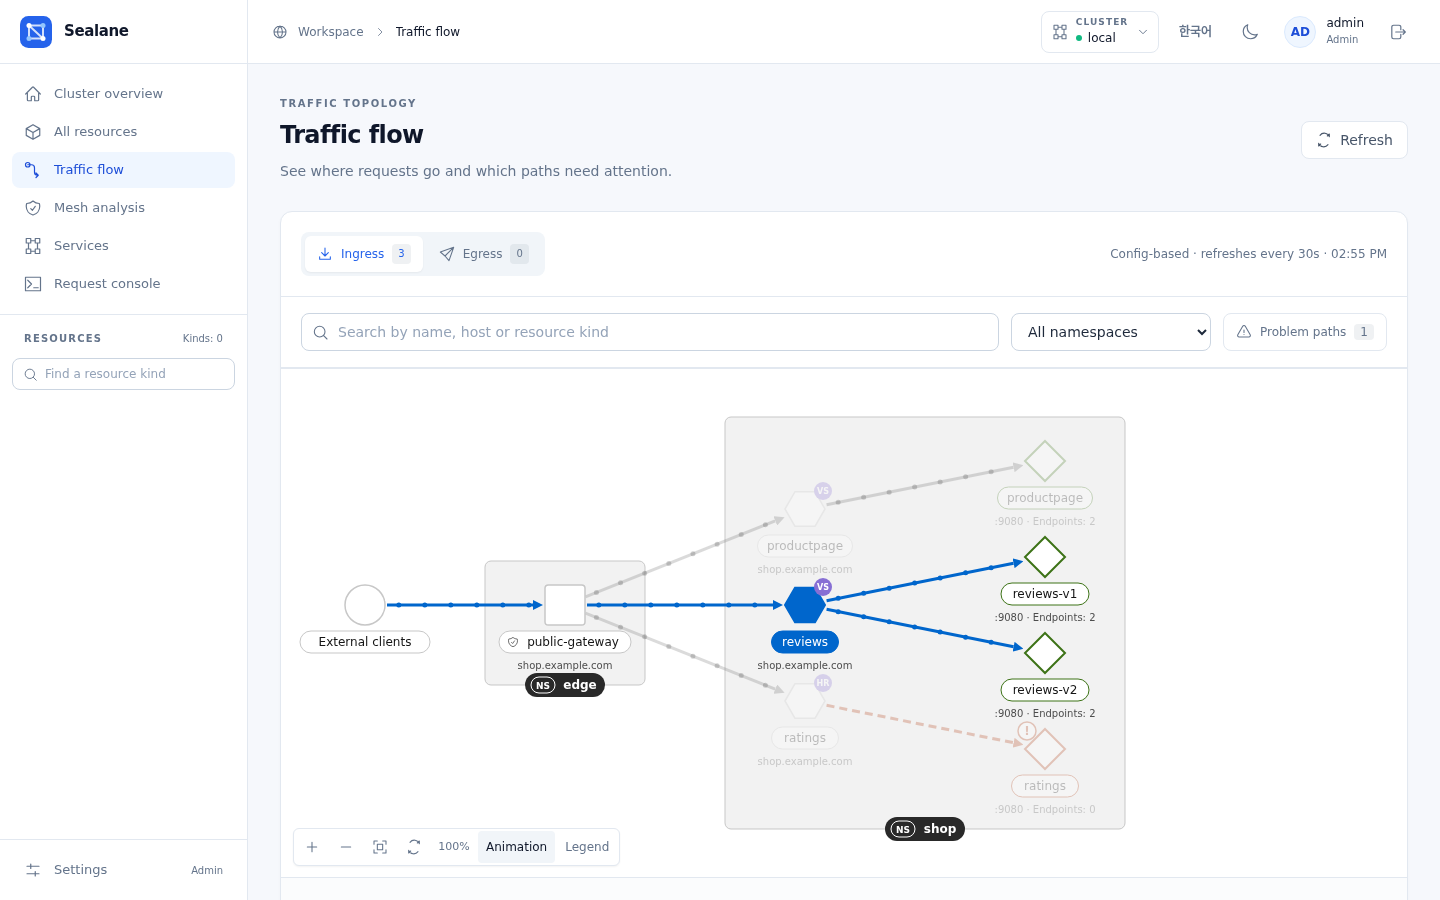
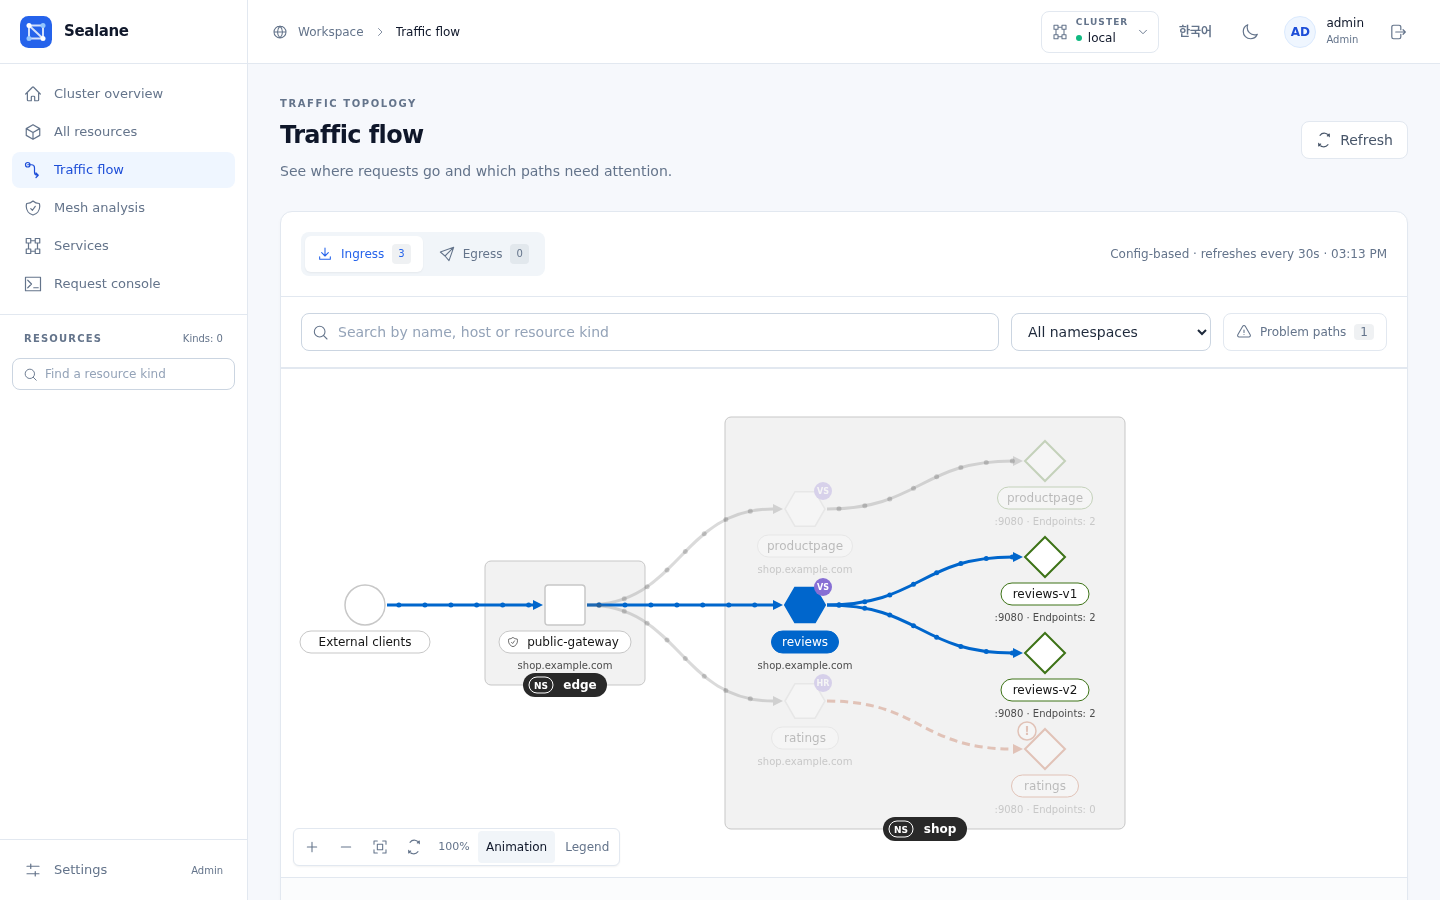
Release 1.18.1: curved edges that keep clear of labels, wider namespace labels
Found in the final live check: with one gateway feeding about 20 routes in a dozen
namespaces, straight edges ran almost vertically across other routes' labels. Edges leave
and enter nodes horizontally again (cubic curve, horizontal tangents), so the vertical part
bundles in the gap between boxes. Namespace label pills are sized at 8px per character for
the semibold text, so long names no longer run into the NS badge. Docs screenshot updated.

diff --git a/web/src/pages/flowLayout.ts b/web/src/pages/flowLayout.ts
@@ -127,18 +127,16 @@ export function layoutTopology({ nodes, edges }: Topology): Layout {
   return { width: CANVAS_WIDTH, height, positions, bands }
 }
 
-// Straight edge between the two node outlines, as Kiali draws them; the end stops short
-// so the arrowhead (ARROW long) touches the target.
+// Edge from the right side of `from` to the left side of `to` as a curve that leaves and arrives
+// horizontally: when one gateway feeds many routes, the vertical part runs in the gap between
+// boxes instead of across other nodes' labels. The end stops short so the arrowhead (ARROW
+// long) touches the target.
 export const ARROW = 10
 export function edgePath(from: Point, to: Point) {
-  const dx = to.x - from.x,
-    dy = to.y - from.y
-  const len = Math.hypot(dx, dy) || 1
-  const ux = dx / len,
-    uy = dy / len
-  const start = NODE_R + 2,
-    end = NODE_R + 2 + ARROW
-  return `M ${from.x + ux * start} ${from.y + uy * start} L ${to.x - ux * end} ${to.y - uy * end}`
+  const x1 = from.x + NODE_R + 2,
+    x2 = to.x - NODE_R - 2 - ARROW
+  const bend = Math.max(24, Math.abs(x2 - x1) / 2)
+  return `M ${x1} ${from.y} C ${x1 + bend} ${from.y}, ${x2 - bend} ${to.y}, ${x2} ${to.y}`
 }
 
 export const edgeKey = (edge: FlowEdge) => `${edge.from}>${edge.to}`

diff --git a/web/src/pages/FlowMap.tsx b/web/src/pages/FlowMap.tsx
@@ -631,7 +631,7 @@ function GraphNode({
 function NamespaceLabel({ band }: { band: Band }) {
   const name = band.namespace || t('flow.legend.external')
   const ns = !!band.namespace
-  const width = name.length * 7 + 22 + (ns ? 30 : 0)
+  const width = name.length * 8 + 22 + (ns ? 30 : 0) // 12px semibold runs about 8px per character
   const cx = band.x + band.width / 2
   const y = band.y + band.height
   return (

diff --git a/docs/features.md b/docs/features.md
@@ -24,7 +24,7 @@ Draws the traffic path purely from routing configuration — no metrics dependen
 
 - **Ingress** — External → Gateway → Route (hosts) → Service (endpoint counts). Backends that don't exist or have zero endpoints get red dashed edges and a red badge, so dead-end configs are caught at a glance.
 - **Egress** — Mesh → egress Gateway → external hosts; ServiceEntries not referenced by any route are shown as direct egress paths. The tooltip and details panel name the ServiceEntry that covers an external backend (wildcard host matching included).
-- **Graph** — drawn like Kiali's graph, with the same PatternFly topology look and shape vocabulary: a grey box per namespace with an `NS` label on its bottom edge, 40 px nodes (circle = request source, square = gateway, hexagon = route, diamond = Service, trapezoid = external host or ServiceEntry), the name in a label pill under each node with the host or endpoint count below it, and 3 px arrowed edges from left to right. A green outline marks a Service with ready endpoints and a red outline plus a `!` mark a node that needs attention; a purple `VS` or `HR` mark tells VirtualServices from HTTPRoutes. Boxes whose stages do not overlap sit side by side, and a box holding only gateways sits level with the middle of the routes it feeds, with the request source beside it, so a shared gateway fans out like Kiali's graph instead of sitting at the top of a long stack.
+- **Graph** — drawn like Kiali's graph, with the same PatternFly topology look and shape vocabulary: a grey box per namespace with an `NS` label on its bottom edge, 40 px nodes (circle = request source, square = gateway, hexagon = route, diamond = Service, trapezoid = external host or ServiceEntry), the name in a label pill under each node with the host or endpoint count below it, and 3 px arrowed edges from left to right that leave and enter nodes horizontally, so a gateway fanning out to many routes bundles its edges in the gap between boxes instead of across labels. A green outline marks a Service with ready endpoints and a red outline plus a `!` mark a node that needs attention; a purple `VS` or `HR` mark tells VirtualServices from HTTPRoutes. Boxes whose stages do not overlap sit side by side, and a box holding only gateways sits level with the middle of the routes it feeds, with the request source beside it, so a shared gateway fans out like Kiali's graph instead of sitting at the top of a long stack.
 - **Navigation** — switch between ingress and egress, search by name/host/kind, filter by namespace or problem paths. Matching nodes retain their upstream and downstream connections. Missing gateway references appear as warning nodes.
 - **Interaction** — select a node with a click or keyboard to fill it with the accent colour, highlight its paths and dim the rest. The details panel shows its status, hosts, port and resource link. Drag any node with the mouse, and its namespace box follows it; drag a box to move all of its nodes, as with Kiali's groups. Zoom, fit, layout reset, the traffic animation switch and the legend sit in the control bar in the graph's lower left.
 - **Refresh** — configuration refreshes every 30 seconds, with a manual refresh button. Failed queries show an error and retry action. Edges show configured connections; the dots sliding along them, like Kiali's traffic animation, mark the direction of configured routing, not traffic volume or latency. Broken paths carry no dots, and the animation is off for users who ask their system for reduced motion.

diff --git a/docs/security.md b/docs/security.md
@@ -68,7 +68,7 @@ subjects:
 - **Without Helm:** each release attaches `impersonation.yaml`, the same RBAC rendered for namespace `sealane`. Apply it next to `install.yaml` and switch the mode on; both survive the next `kubectl apply -f install.yaml`:
 
 ```bash
-kubectl apply -f https://github.com/wonjune95/sealane/releases/download/v1.18.0/impersonation.yaml
+kubectl apply -f https://github.com/wonjune95/sealane/releases/download/v1.18.1/impersonation.yaml
 kubectl -n sealane set env deploy/sealane IMPERSONATION=true
 ```
 
@@ -84,9 +84,9 @@ Images and charts are signed keyless with cosign (GitHub OIDC identity via Sigst
 
 ```bash
 cosign verify --certificate-identity-regexp 'https://github.com/wonjune95/sealane/' \
-  --certificate-oidc-issuer https://token.actions.githubusercontent.com ghcr.io/wonjune95/sealane:1.18.0
+  --certificate-oidc-issuer https://token.actions.githubusercontent.com ghcr.io/wonjune95/sealane:1.18.1
 cosign verify --certificate-identity-regexp 'https://github.com/wonjune95/sealane/' \
-  --certificate-oidc-issuer https://token.actions.githubusercontent.com ghcr.io/wonjune95/charts/sealane:1.18.0
+  --certificate-oidc-issuer https://token.actions.githubusercontent.com ghcr.io/wonjune95/charts/sealane:1.18.1
 ```
 
 Use cosign 3.x. From 1.0.0 on, signatures are stored as OCI referrers (Sigstore bundles) next to the image and chart rather than as `.sig` tags; cosign 3.x verifies both forms, older cosign only the tags.

diff --git a/docs/releases/v1.18.1.md b/docs/releases/v1.18.1.md
@@ -1,0 +1,21 @@
+# Sealane v1.18.1
+
+## Edges stay clear of labels
+
+### Highlights
+- **Curved edges.** Edges leave and enter nodes horizontally again. On a cluster where one gateway feeds routes in a dozen namespaces, straight edges ran almost vertically across other routes' labels; now the vertical part runs in the gap between the boxes and each edge turns into its route.
+- **Long namespace names fit their label.** The label pill on a namespace box is sized for its semibold text, so a name such as `commandcenter` no longer runs into the `NS` badge.
+
+### Upgrade notes
+- No breaking changes, no new values, no manual step.
+- `helm upgrade sealane oci://ghcr.io/wonjune95/charts/sealane --version 1.18.1 -n <namespace> --reset-then-reuse-values`
+
+### Install
+```sh
+helm install sealane oci://ghcr.io/wonjune95/charts/sealane --version 1.18.1 -n sealane --create-namespace
+# or
+kubectl apply -f https://github.com/wonjune95/sealane/releases/download/v1.18.1/install.yaml
+```
+Image `ghcr.io/wonjune95/sealane:1.18.1` (linux/amd64, linux/arm64) and the chart are signed with cosign (keyless); the SBOM and `impersonation.yaml` are attached below.
+
+**Full Changelog**: https://github.com/wonjune95/sealane/compare/v1.18.0...v1.18.1

diff --git a/docs/ko/authentication.md b/docs/ko/authentication.md
@@ -158,7 +158,7 @@ kubectl -n sealane rollout restart deploy/sealane
 실제 IdP 없이 SSO를 시험하려면 [`examples/dex-demo.yaml`](https://github.com/wonjune95/sealane/blob/main/examples/dex-demo.yaml)을 배포합니다. 이 파일은 Dex를 **mock connector**로 실행합니다. 모든 로그인이 `authors` 그룹에 속한 `kilgore@kilgore.trout` 사용자로 성공합니다. 절차는 파일 맨 위 주석에 있습니다. 두 `example.com` 호스트를 바꾸고(Dex는 브라우저**와** Sealane 파드 양쪽에서 같은 발급자 URL로 접근할 수 있어야 합니다), 파일을 적용한 다음 Sealane을 다음과 같이 업그레이드합니다.
 
 ```bash
-helm upgrade sealane oci://ghcr.io/wonjune95/charts/sealane --version 1.18.0 -n sealane --reset-then-reuse-values \
+helm upgrade sealane oci://ghcr.io/wonjune95/charts/sealane --version 1.18.1 -n sealane --reset-then-reuse-values \
   --set oidc.enabled=true --set oidc.displayName=Dex \
   --set oidc.issuerURL=http://dex.example.com/dex --set oidc.clientID=sealane \
   --set oidc.clientSecretRef.name=sealane-dex-client \

diff --git a/docs/authentication.md b/docs/authentication.md
@@ -156,7 +156,7 @@ When upgrading an existing release from 0.9, use `--reset-then-reuse-values` (He
 To try SSO without a real IdP, deploy [`examples/dex-demo.yaml`](https://github.com/wonjune95/sealane/blob/main/examples/dex-demo.yaml). It runs Dex with the **mock connector**: every sign-in succeeds as `kilgore@kilgore.trout` with the group `authors`. The comments at the top of the file give the steps: replace the two `example.com` hosts (Dex must be reachable by the browser **and** by the Sealane pod at the same issuer URL), apply the file, then upgrade Sealane with:
 
 ```bash
-helm upgrade sealane oci://ghcr.io/wonjune95/charts/sealane --version 1.18.0 -n sealane --reset-then-reuse-values \
+helm upgrade sealane oci://ghcr.io/wonjune95/charts/sealane --version 1.18.1 -n sealane --reset-then-reuse-values \
   --set oidc.enabled=true --set oidc.displayName=Dex \
   --set oidc.issuerURL=http://dex.example.com/dex --set oidc.clientID=sealane \
   --set oidc.clientSecretRef.name=sealane-dex-client \

diff --git a/docs/getting-started.md b/docs/getting-started.md
@@ -4,7 +4,7 @@ Running in-cluster is the default. To install the prebuilt image you only need H
 
 ```bash
 # Helm (OCI)
-helm install sealane oci://ghcr.io/wonjune95/charts/sealane --version 1.18.0 -n sealane --create-namespace
+helm install sealane oci://ghcr.io/wonjune95/charts/sealane --version 1.18.1 -n sealane --create-namespace
 # or plain manifests
 kubectl apply -f https://github.com/wonjune95/sealane/releases/latest/download/install.yaml
 kubectl -n sealane port-forward svc/sealane 8080:8080   # → http://localhost:8080, log in as admin / admin
@@ -21,7 +21,7 @@ Every release tag (`v*`) publishes an image via GitHub Actions — use it direct
 
 ```bash
 # prebuilt image (recommended)
-ghcr.io/wonjune95/sealane:1.18.0     # or :latest
+ghcr.io/wonjune95/sealane:1.18.1     # or :latest
 ```
 
 Or build your own:

diff --git a/docs/ko/getting-started.md b/docs/ko/getting-started.md
@@ -6,7 +6,7 @@
 
 ```bash
 # Helm (OCI)
-helm install sealane oci://ghcr.io/wonjune95/charts/sealane --version 1.18.0 -n sealane --create-namespace
+helm install sealane oci://ghcr.io/wonjune95/charts/sealane --version 1.18.1 -n sealane --create-namespace
 # or plain manifests
 kubectl apply -f https://github.com/wonjune95/sealane/releases/latest/download/install.yaml
 kubectl -n sealane port-forward svc/sealane 8080:8080   # → http://localhost:8080, log in as admin / admin
@@ -23,7 +23,7 @@ kubectl -n sealane port-forward svc/sealane 8080:8080   # → http://localhost:8
 
 ```bash
 # prebuilt image (recommended)
-ghcr.io/wonjune95/sealane:1.18.0     # or :latest
+ghcr.io/wonjune95/sealane:1.18.1     # or :latest
 ```
 
 직접 빌드할 수도 있습니다.

diff --git a/README.ko.md b/README.ko.md
@@ -19,7 +19,7 @@
 
 ```bash
 # Helm (OCI)
-helm install sealane oci://ghcr.io/wonjune95/charts/sealane --version 1.18.0 -n sealane --create-namespace
+helm install sealane oci://ghcr.io/wonjune95/charts/sealane --version 1.18.1 -n sealane --create-namespace
 # or plain manifests
 kubectl apply -f https://github.com/wonjune95/sealane/releases/latest/download/install.yaml
 kubectl -n sealane port-forward svc/sealane 8080:8080   # → http://localhost:8080, 초기 계정 admin / admin

diff --git a/README.md b/README.md
@@ -18,7 +18,7 @@
 
 ```bash
 # Helm (OCI)
-helm install sealane oci://ghcr.io/wonjune95/charts/sealane --version 1.18.0 -n sealane --create-namespace
+helm install sealane oci://ghcr.io/wonjune95/charts/sealane --version 1.18.1 -n sealane --create-namespace
 # or plain manifests
 kubectl apply -f https://github.com/wonjune95/sealane/releases/latest/download/install.yaml
 kubectl -n sealane port-forward svc/sealane 8080:8080   # → http://localhost:8080, log in as admin / admin

diff --git a/docs/index.md b/docs/index.md
@@ -7,7 +7,7 @@
 
 ```bash
 # Helm (OCI)
-helm install sealane oci://ghcr.io/wonjune95/charts/sealane --version 1.18.0 -n sealane --create-namespace
+helm install sealane oci://ghcr.io/wonjune95/charts/sealane --version 1.18.1 -n sealane --create-namespace
 # or plain manifests
 kubectl apply -f https://github.com/wonjune95/sealane/releases/latest/download/install.yaml
 kubectl -n sealane port-forward svc/sealane 8080:8080   # → http://localhost:8080, log in as admin / admin
